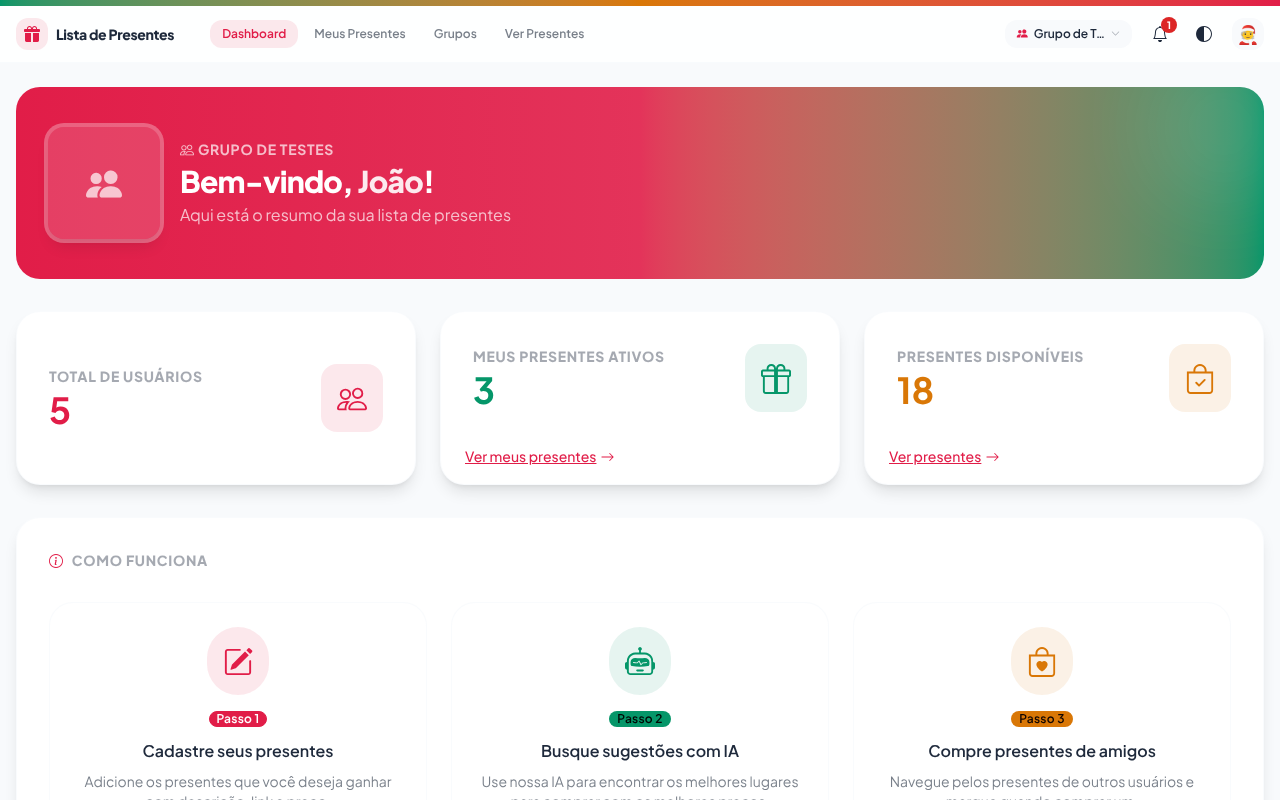
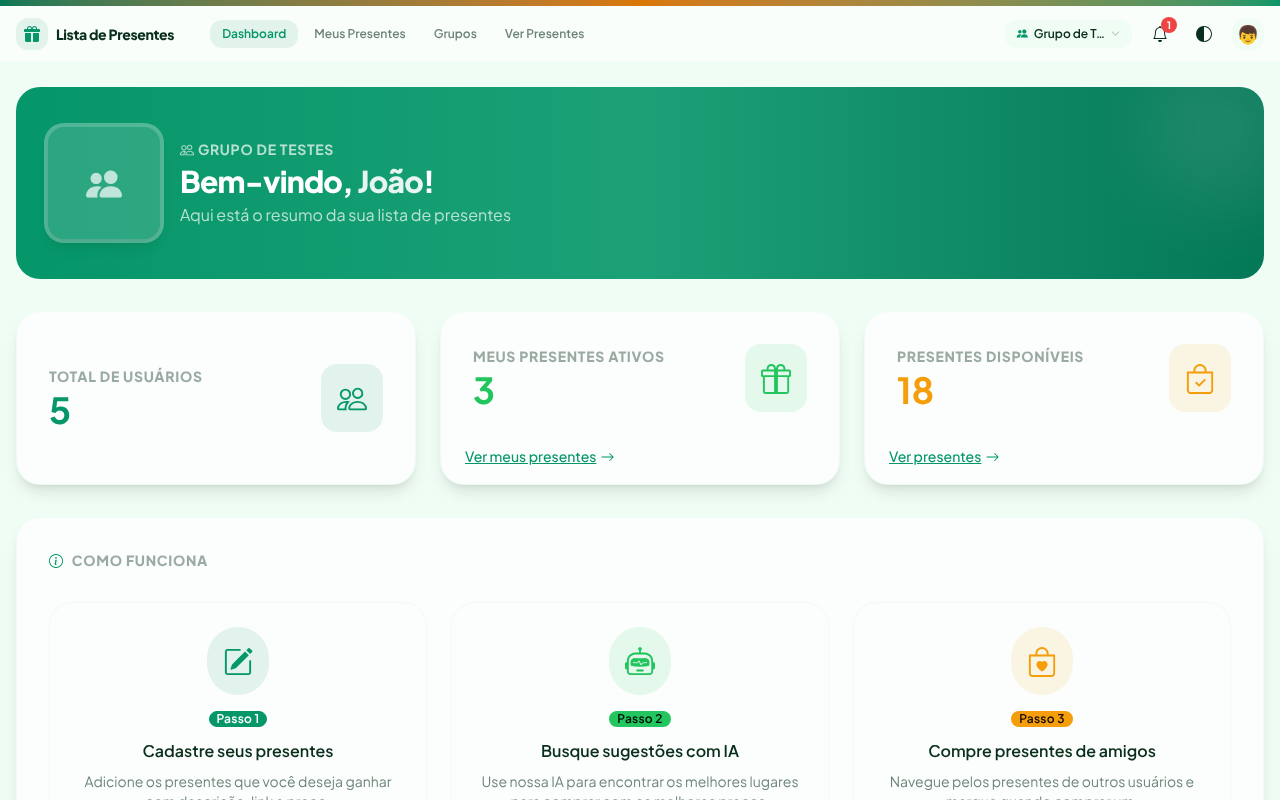
Prints e botao do README no tema verde (Emerald)

diff --git a/README.md b/README.md
@@ -6,7 +6,7 @@
 
 Cada pessoa monta a sua lista colando o link do produto. Os outros veem o que falta comprar, marcam o que compraram, e quem ganha não descobre o que vem.
 
-[![Experimente agora](https://img.shields.io/badge/Experimente%20agora-lista--presentes-e11d48?style=for-the-badge&logo=googlechrome&logoColor=white)](https://lista-presentes-im4b.onrender.com)
+[![Experimente agora](https://img.shields.io/badge/Experimente%20agora-lista--presentes-059669?style=for-the-badge&logo=googlechrome&logoColor=white)](https://lista-presentes-im4b.onrender.com)
 
 ![Tests](https://github.com/Maxwbh/Lista_de_Presentes/actions/workflows/tests.yml/badge.svg)
 ![Python](https://img.shields.io/badge/python-3.11%20%7C%203.12-blue.svg)
